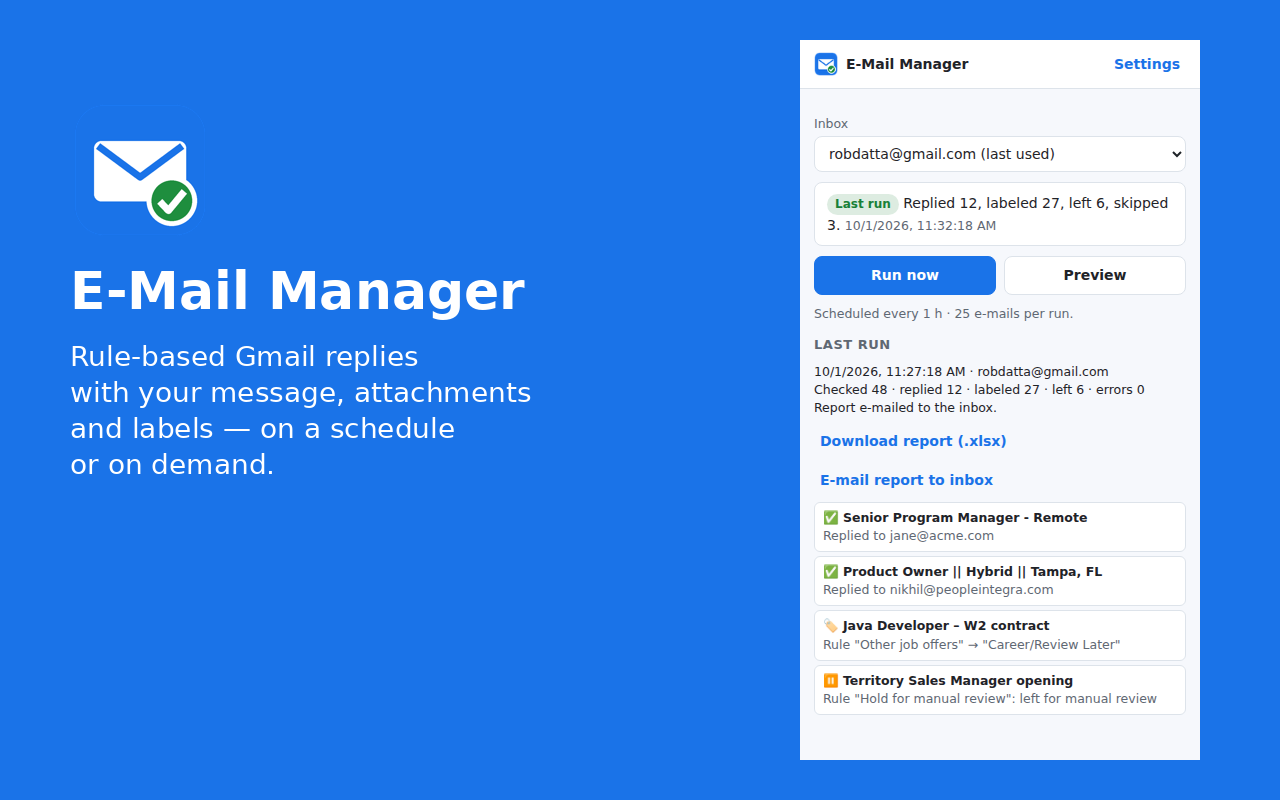
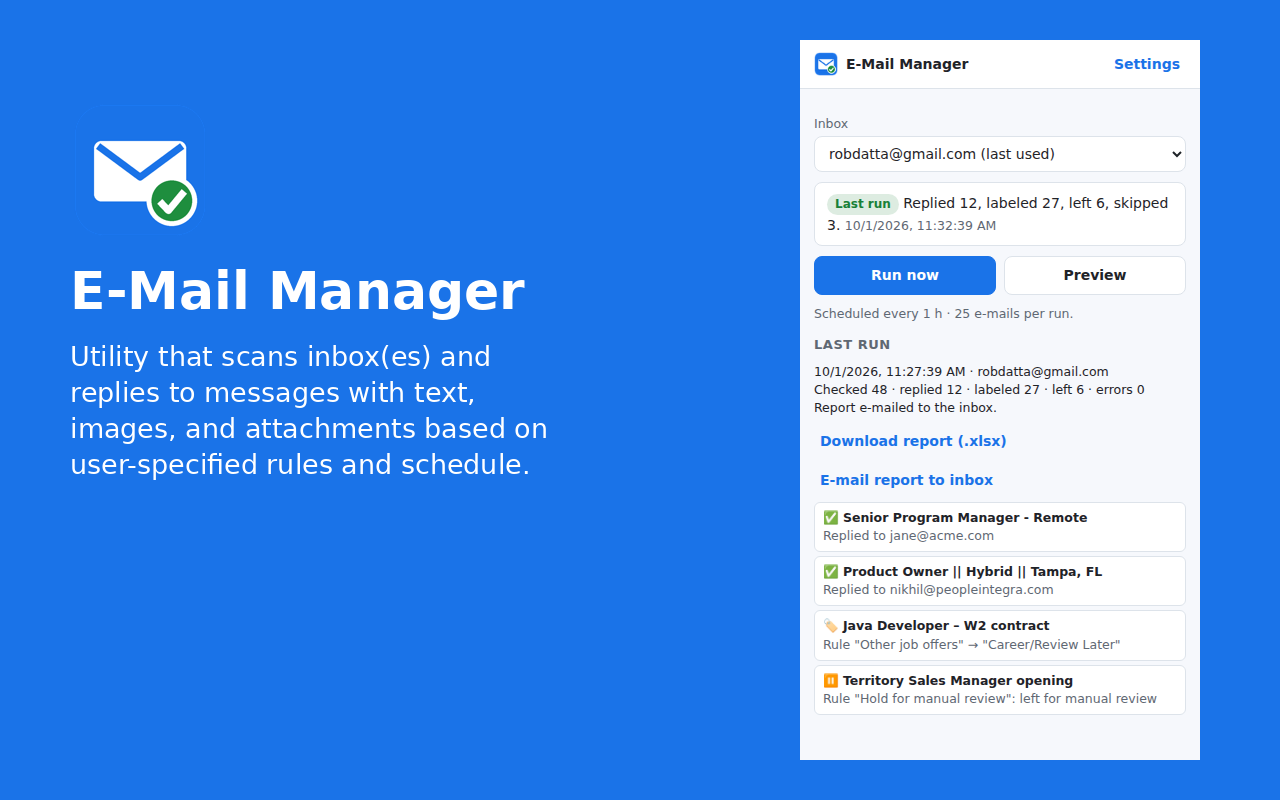
Update extension summary and descriptions

Changed region(s): [[0.0625, 0.4375, 0.4375, 0.5938]]

diff --git a/app.html b/app.html
@@ -12,7 +12,7 @@
   <img src="icons/icon48.png" alt="" width="32" height="32">
   <div>
     <h1>E-Mail Manager</h1>
-    <div class="muted small">Answer the questions below, then save. You can change anything later.</div>
+    <div class="muted small">Utility that scans inbox(es) and replies to messages with text, images, and attachments based on user-specified rules and schedule. Answer the questions below, then save — you can change anything later.</div>
   </div>
 </header>
 

diff --git a/popup.html b/popup.html
@@ -16,7 +16,7 @@
 
 <div id="welcome" class="pad hidden">
   <h2>Welcome</h2>
-  <p>E-Mail Manager answers e-mails for you using rules you set — with your own message, attachments and labels.</p>
+  <p>Utility that scans inbox(es) and replies to messages with text, images, and attachments based on user-specified rules and schedule.</p>
   <p id="welcomeInbox" class="muted"></p>
   <button class="primary" id="setupBtn">Start setup</button>
 </div>

diff --git a/docs/STORE_LISTING.md b/docs/STORE_LISTING.md
@@ -3,13 +3,13 @@
 **Name:** E-Mail Manager
 
 **Summary (132 characters max):**
-Auto-reply to Gmail with your own message and attachments, based on your rules — then label, archive and get a spreadsheet report.
+Utility that scans inbox(es) and replies to messages with text, images, and attachments based on user-specified rules and schedule.
 
 **Category:** Productivity
 
 **Description:**
 
-E-Mail Manager answers the e-mails you get over and over, the way you would.
+Utility that scans inbox(es) and replies to messages with text, images, and attachments based on user-specified rules and schedule.
 
 Set it up once in a short guided wizard:
 
@@ -34,7 +34,7 @@ Made by Rob Datta. Source code: https://github.com/robdatta/E-mail_Manager
 ## Privacy practices tab
 
 **Single purpose:**
-Automatically reply to, label and organize the user's Gmail messages according to rules the user defines.
+Utility that scans inbox(es) and replies to messages with text, images, and attachments based on user-specified rules and schedule.
 
 **Permission justifications:**
 - `identity`: Signs the user in to the Google account whose inbox they choose, using Google OAuth.

diff --git a/README.md b/README.md
@@ -1,6 +1,8 @@
 # E-Mail Manager
 
-A Chrome extension that answers Gmail messages for you using rules you set. You choose:
+Utility that scans inbox(es) and replies to messages with text, images, and attachments based on user-specified rules and schedule.
+
+E-Mail Manager is a Chrome extension. You choose:
 
 1. **Inbox.** Any Gmail or Google Workspace address. If you click the toolbar button while a Gmail inbox is open, it uses that inbox, and you can pick another one.
 2. **Rules.** Keyword rules decide which e-mails get a reply, which only get a label, and which are left for you to review.

diff --git a/PRIVACY.md b/PRIVACY.md
@@ -2,7 +2,7 @@
 
 _Last updated: October 1, 2026_
 
-E-Mail Manager ("the extension") is published by Rob Datta (robdatta@gmail.com). This policy explains what data the extension uses and why.
+E-Mail Manager ("the extension") is published by Rob Datta (robdatta@gmail.com). Utility that scans inbox(es) and replies to messages with text, images, and attachments based on user-specified rules and schedule. This policy explains what data the extension uses and why.
 
 ## What the extension accesses
 
